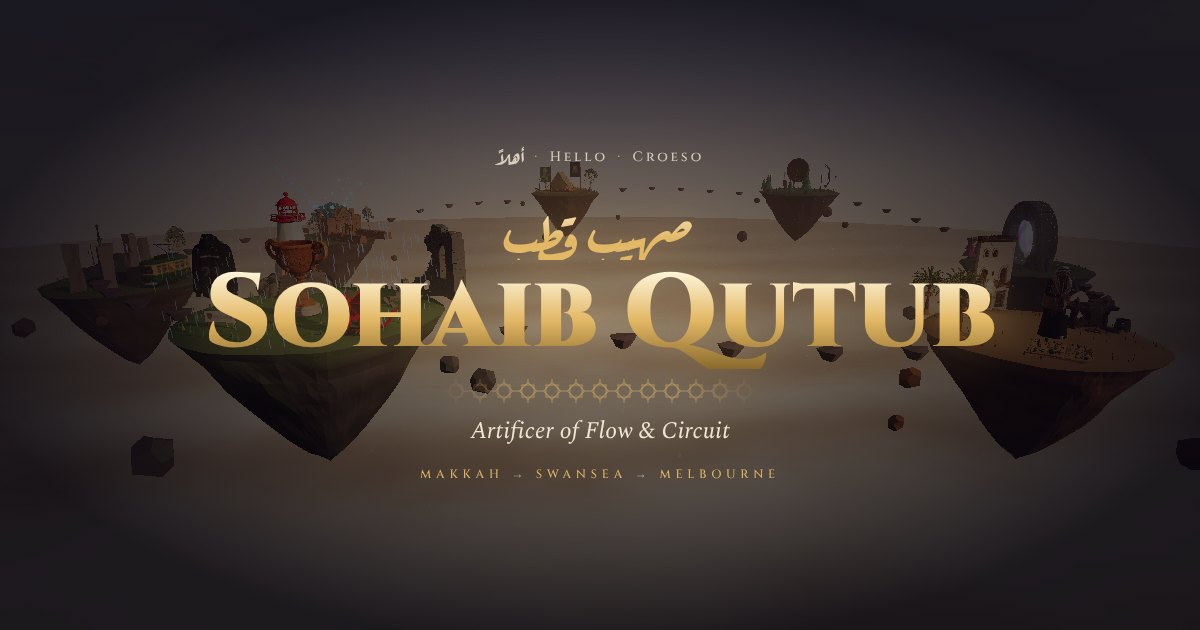
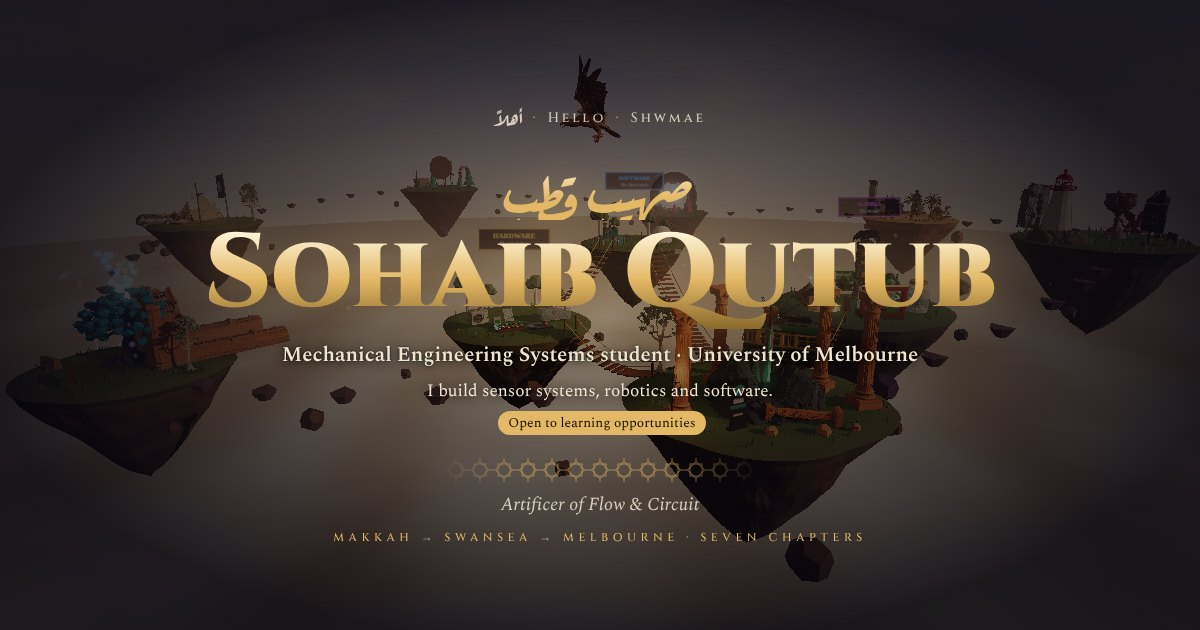
Ready to launch: share picture, search files, 404 page
- New link-preview picture made from the real title screen (role and pitch
  now show when the site is shared), with a tool to remake it
- Plain portfolio title for search results, fuller share tags, canonical link
- robots.txt, sitemap.xml, .nojekyll and a 404 page that leads back home
- Skill project links are 24px tap targets on phones

Claude-Session: https://claude.ai/code/session_01MJffDp7GYrH5Q7uLie5xzq

diff --git a/js/main.js b/js/main.js
@@ -6,8 +6,8 @@ import { OutputPass } from 'three/addons/postprocessing/OutputPass.js';
 import { GLTFLoader } from 'three/addons/loaders/GLTFLoader.js';
 import { DRACOLoader } from 'three/addons/loaders/DRACOLoader.js';
 import { DecalGeometry } from 'three/addons/geometries/DecalGeometry.js';
-import * as D from './data.js?v=56';
-import { map as MAP } from './worldmap.js?v=56';
+import * as D from './data.js?v=57';
+import { map as MAP } from './worldmap.js?v=57';
 
 const TAU = Math.PI * 2;
 const RING = 46;
@@ -478,7 +478,7 @@ function pump() {
   while (active < LOAD_AT_ONCE && queue.length) {
     const job = queue.shift(); active++;
     // The next download starts as soon as this one arrives, while it is still being decoded.
-    const bytes = fetch(`assets/models/${job.name}.glb?v=56`)
+    const bytes = fetch(`assets/models/${job.name}.glb?v=57`)
       .then((r) => { if (!r.ok) throw new Error(`HTTP ${r.status}`); return r.arrayBuffer(); })
       .finally(() => { active--; pump(); });
     bytes.then((buf) => gltf.parseAsync(buf, 'assets/models/'))
@@ -807,7 +807,7 @@ function logoTexture(file, { w = 512, h = 512, bg = '#ffffff', pad = 0.12, box, 
     tex.needsUpdate = true;
     if (onReady) onReady();
   });
-  img.src = `assets/logos/${file}?v=56`;
+  img.src = `assets/logos/${file}?v=57`;
   return tex;
 }
 const wood = () => flat(0x6b4a2e);
@@ -939,7 +939,7 @@ function medalFace(top, mid, bottom, logo, onLogo) {
   if (logo) {
     const img = new Image();
     img.onload = () => { logoImg = img; draw(); if (onLogo) onLogo(img.naturalWidth / img.naturalHeight); };
-    img.src = `assets/logos/${logo}?v=56`;
+    img.src = `assets/logos/${logo}?v=57`;
   }
   draw(); document.fonts.load('900 70px Cinzel').then(draw).catch(() => {});
   return tex;
@@ -1784,7 +1784,7 @@ const questCards = (list, openFirst) => list.map((q, i) => `
           <span class="q-status ${q.status === 'Active' ? 'active' : ''}">${esc(q.status)}</span>
           <span class="q-name">${esc(q.name)}</span><span class="q-role">${esc(q.role)}</span>
         </summary>
-        <div class="q-body">${q.logo ? `<img class="q-logo" src="assets/logos/${esc(q.logo)}?v=56" alt="${esc(q.name)} logo">` : ''}${q.shot ? `<a class="q-shot" href="${esc(q.play || '#')}" target="_blank" rel="noopener" tabindex="-1" aria-hidden="true"><img src="${esc(q.shot.src)}?v=56" width="${q.shot.w}" height="${q.shot.h}" alt="" loading="lazy"></a>` : ''}${q.play ? `<p class="q-play"><a class="play-btn" href="${esc(q.play)}" target="_blank" rel="noopener">▶ Play ${esc(q.name)} in your browser</a></p>` : ''}<p>${esc(q.summary)}</p>
+        <div class="q-body">${q.logo ? `<img class="q-logo" src="assets/logos/${esc(q.logo)}?v=57" alt="${esc(q.name)} logo">` : ''}${q.shot ? `<a class="q-shot" href="${esc(q.play || '#')}" target="_blank" rel="noopener" tabindex="-1" aria-hidden="true"><img src="${esc(q.shot.src)}?v=57" width="${q.shot.w}" height="${q.shot.h}" alt="" loading="lazy"></a>` : ''}${q.play ? `<p class="q-play"><a class="play-btn" href="${esc(q.play)}" target="_blank" rel="noopener">▶ Play ${esc(q.name)} in your browser</a></p>` : ''}<p>${esc(q.summary)}</p>
           <ul>${q.objectives.map((o) => `<li>${objective(o)}</li>`).join('')}</ul>
           ${q.flow ? `<div class="flow" aria-label="How it works">${q.flow.map((f) => `<span>${esc(f)}</span>`).join('<i>→</i>')}</div>` : ''}
           <p class="chips-label">Tools &amp; skills</p><div class="chips">${q.loot.map((l) => `<span class="chip">${esc(l)}</span>`).join('')}</div>
@@ -1892,12 +1892,12 @@ const panels = {
     ${motto(D.mottos.guilds)}
     <section><h3>Where I belong</h3><div class="logo-wall">${D.badges.map((b) => `
       <a class="logo-tile" href="${esc(b.href)}" target="_blank" rel="noopener" title="${esc(b.name)}"${b.bg ? ` style="background:${esc(b.bg)}"` : ''}>
-        ${b.logo ? `<img src="assets/logos/${esc(b.logo)}?v=56" alt="${esc(b.name)} logo" loading="lazy">` : `<b class="name-badge"><i lang="ar">${esc(b.ar)}</i>${esc(b.name)}</b>`}<span>${esc(b.note)}</span></a>`).join('')}</div></section>
+        ${b.logo ? `<img src="assets/logos/${esc(b.logo)}?v=57" alt="${esc(b.name)} logo" loading="lazy">` : `<b class="name-badge"><i lang="ar">${esc(b.ar)}</i>${esc(b.name)}</b>`}<span>${esc(b.note)}</span></a>`).join('')}</div></section>
     <section><h3>${dual('Clubs & leadership', 'Banners carried')}</h3>${D.guilds.map((g) => `
-      <div class="card">${g.logo ? `<img class="card-logo" src="assets/logos/${esc(g.logo)}?v=56" alt=""${g.logoBg ? ` style="background:${esc(g.logoBg)}"` : ''}>` : ''}<time>${esc(g.when)}</time><strong>${esc(g.name)}</strong>
+      <div class="card">${g.logo ? `<img class="card-logo" src="assets/logos/${esc(g.logo)}?v=57" alt=""${g.logoBg ? ` style="background:${esc(g.logoBg)}"` : ''}>` : ''}<time>${esc(g.when)}</time><strong>${esc(g.name)}</strong>
         <span class="sub">${esc(g.role)} · ${esc(g.place)}</span><p>${esc(g.detail)}</p></div>`).join('')}</section>
     <section><h3>${dual('Education', 'Academies')}</h3>${D.academies.map((a) => `
-      <div class="card">${a.logo ? `<img class="card-logo" src="assets/logos/${esc(a.logo)}?v=56" alt="">` : ''}<time>${esc(a.when)}</time><strong>${esc(a.name)}</strong><p>${esc(a.what)}</p></div>`).join('')}</section>`,
+      <div class="card">${a.logo ? `<img class="card-logo" src="assets/logos/${esc(a.logo)}?v=57" alt="">` : ''}<time>${esc(a.when)}</time><strong>${esc(a.name)}</strong><p>${esc(a.what)}</p></div>`).join('')}</section>`,
 
   portal: (r) => `${head(r, 'Open a Gate')}
     <p class="lore">Looking for an engineer who is ready to be useful from day one? Step through.</p>

diff --git a/index.html b/index.html
@@ -3,16 +3,25 @@
 <head>
 <meta charset="utf-8">
 <meta name="viewport" content="width=device-width, initial-scale=1, viewport-fit=cover">
-<title>Sohaib Qutub — The Chronicle</title>
+<title>Sohaib Qutub — Mechanical Engineering Student · Portfolio &amp; CV</title>
 <meta name="description" content="Sohaib Qutub — mechanical engineering student, builder of sensors, systems and software. An explorable 3D character sheet.">
 <link rel="icon" href="assets/favicon.svg" type="image/svg+xml">
 <meta name="theme-color" content="#0b0820">
 <meta property="og:type" content="website">
-<meta property="og:title" content="Sohaib Qutub — The Chronicle">
+<meta property="og:title" content="Sohaib Qutub — Engineering Student · Portfolio &amp; CV">
 <meta property="og:description" content="Mechanical engineering student who builds sensors, systems and software. Explore the projects as a 3D world.">
 <meta property="og:url" content="https://sogamer16.github.io/my-world/">
 <meta property="og:image" content="https://sogamer16.github.io/my-world/assets/og.jpg">
+<meta property="og:image:width" content="1200">
+<meta property="og:image:height" content="630">
+<meta property="og:image:alt" content="Sohaib Qutub, Mechanical Engineering Systems student at the University of Melbourne, over floating islands from the site">
+<meta property="og:site_name" content="Sohaib Qutub">
+<meta property="og:locale" content="en_AU">
 <meta name="twitter:card" content="summary_large_image">
+<meta name="twitter:title" content="Sohaib Qutub — Engineering Student · Portfolio &amp; CV">
+<meta name="twitter:description" content="Mechanical engineering student who builds sensors, systems and software. Explore the projects as a 3D world.">
+<meta name="twitter:image" content="https://sogamer16.github.io/my-world/assets/og.jpg">
+<link rel="canonical" href="https://sogamer16.github.io/my-world/">
 <script type="application/ld+json">
 {"@context":"https://schema.org","@type":"Person","name":"Sohaib Qutub","url":"https://sogamer16.github.io/my-world/","description":"Mechanical Engineering Systems student at the University of Melbourne who builds sensor systems, robotics and software.","alumniOf":{"@type":"CollegeOrUniversity","name":"University of Melbourne"},"sameAs":["https://www.linkedin.com/in/sohaibqutub","https://github.com/sogamer16","https://sogamer16.itch.io/"]}
 </script>
@@ -20,15 +29,15 @@
 <link rel="preconnect" href="https://fonts.gstatic.com" crossorigin>
 <link rel="preload" as="style" href="https://fonts.googleapis.com/css2?family=Aref+Ruqaa:wght@700&family=Cinzel:wght@500;700;900&family=Spectral:ital,wght@0,400;0,600;1,400&display=swap" onload="this.onload=null;this.rel='stylesheet';document.documentElement.classList.add('fonts-css')">
 <noscript><link rel="stylesheet" href="https://fonts.googleapis.com/css2?family=Aref+Ruqaa:wght@700&family=Cinzel:wght@500;700;900&family=Spectral:ital,wght@0,400;0,600;1,400&display=swap"></noscript>
-<link rel="stylesheet" href="css/style.css?v=56">
+<link rel="stylesheet" href="css/style.css?v=57">
 <script type="importmap">
 { "imports": { "three": "./vendor/three/three.module.js", "three/addons/": "./vendor/three/addons/" } }
 </script>
-<link rel="modulepreload" href="js/data.js?v=56">
+<link rel="modulepreload" href="js/data.js?v=57">
 <script>
   // Start fetching the 3D code early, unless the plain view is what will be shown (a #summary link or data saver).
   if (location.hash !== '#summary' && !(navigator.connection && navigator.connection.saveData)) {
-    ['vendor/three/three.module.js', 'vendor/three/addons/loaders/GLTFLoader.js', 'js/worldmap.js?v=56', 'js/main.js?v=56'].forEach(function (h) {
+    ['vendor/three/three.module.js', 'vendor/three/addons/loaders/GLTFLoader.js', 'js/worldmap.js?v=57', 'js/main.js?v=57'].forEach(function (h) {
       var l = document.createElement('link'); l.rel = 'modulepreload'; l.href = h; document.head.appendChild(l);
     });
   }
@@ -89,6 +98,6 @@
 <p id="hint" class="hud" role="status" aria-live="polite"></p>
 
 <noscript><p style="position:relative;z-index:50;padding:2rem;color:#fff">Sohaib Qutub — Mechanical Engineering Systems student, University of Melbourne. This site needs JavaScript. Find me on <a style="color:#e3b866" href="https://www.linkedin.com/in/sohaibqutub">LinkedIn</a> or <a style="color:#e3b866" href="https://github.com/sogamer16">GitHub</a>.</p></noscript>
-<script type="module" src="js/summary.js?v=56"></script>
+<script type="module" src="js/summary.js?v=57"></script>
 </body>
 </html>

diff --git a/js/summary.js b/js/summary.js
@@ -1,6 +1,6 @@
 // The plain view: everything on the site as one readable, printable page.
 // Kept separate from the 3D scene so it still works when WebGL does not.
-import * as D from './data.js?v=56';
+import * as D from './data.js?v=57';
 
 const esc = (s) => String(s).replace(/[&<>"]/g, (c) => ({ '&': '&amp;', '<': '&lt;', '>': '&gt;', '"': '&quot;' }[c]));
 const el = document.getElementById('summary');
@@ -32,7 +32,7 @@ el.innerHTML = `
       <p class="s-links"><a href="mailto:${esc(D.email.join('@'))}">${esc(D.email.join('@'))}</a> · ${D.portals.map((p) => `<a href="${esc(p.href)}" target="_blank" rel="noopener">${esc(p.href.replace(/^https?:\/\/(www\.)?/, ''))}</a>`).join(' · ')}</p>
       <p>${esc(D.hero.summary)}</p>
       <p class="s-seeking">${esc(D.hero.seeking)}</p>
-      <div class="s-logos">${D.badges.map((b) => (b.logo ? `<img src="assets/logos/${esc(b.logo)}?v=56"${b.size ? ` width="${b.size[0]}" height="${b.size[1]}"` : ''} alt="${esc(b.name)}" title="${esc(b.name)}"${b.bg ? ` style="background:${esc(b.bg)}"` : ''}>` : `<span class="s-badge" title="${esc(b.name)}"><i lang="ar">${esc(b.ar)}</i> ${esc(b.name)}</span>`)).join('')}</div>
+      <div class="s-logos">${D.badges.map((b) => (b.logo ? `<img src="assets/logos/${esc(b.logo)}?v=57"${b.size ? ` width="${b.size[0]}" height="${b.size[1]}"` : ''} alt="${esc(b.name)}" title="${esc(b.name)}"${b.bg ? ` style="background:${esc(b.bg)}"` : ''}>` : `<span class="s-badge" title="${esc(b.name)}"><i lang="ar">${esc(b.ar)}</i> ${esc(b.name)}</span>`)).join('')}</div>
     </header>
 
     <h2>Education</h2>
@@ -89,7 +89,7 @@ if (/^[a-z0-9-]+$/.test(D.analytics || '')) {
 // visitors, but not under a #summary link or with data saver on until the reader goes back to the world,
 // and never on a device without WebGL.
 let world = null;
-const loadWorld = () => { if (!document.body.classList.contains('no-webgl')) world ||= import('./main.js?v=56'); };
+const loadWorld = () => { if (!document.body.classList.contains('no-webgl')) world ||= import('./main.js?v=57'); };
 const saveData = !!(navigator.connection && navigator.connection.saveData);
 
 // On a first visit the text waits (at most 0.8 s) for its font, so lines do not re-wrap and jump when it arrives.

diff --git a/404.html b/404.html
@@ -1,0 +1,27 @@
+<!doctype html>
+<html lang="en">
+<head>
+<meta charset="utf-8">
+<meta name="viewport" content="width=device-width, initial-scale=1">
+<title>Page not found — Sohaib Qutub</title>
+<meta name="robots" content="noindex">
+<link rel="icon" href="/my-world/assets/favicon.svg" type="image/svg+xml">
+<style>
+  :root { color-scheme: dark; }
+  body { margin: 0; min-height: 100vh; display: grid; place-items: center; background: #0b0820; color: #efe6d2; font: 17px/1.5 Georgia, serif; text-align: center; padding: 16px; box-sizing: border-box; }
+  h1 { font-weight: 400; letter-spacing: 0.04em; margin: 0 0 0.4rem; color: #e3b866; }
+  p { margin: 0 0 1.4rem; opacity: 0.85; }
+  a { display: inline-block; margin: 0.3rem; padding: 0.6rem 1.1rem; border: 1px solid #e3b866; border-radius: 999px; color: #e3b866; text-decoration: none; }
+  a:first-of-type { background: #e3b866; color: #1a1206; }
+  a:focus-visible { outline: 2px solid #fff; outline-offset: 3px; }
+</style>
+</head>
+<body>
+<main>
+  <h1>This page isn’t here</h1>
+  <p>The link may be old. Everything is on the main page.</p>
+  <a href="/my-world/">Explore the world</a>
+  <a href="/my-world/#summary">View CV &amp; projects</a>
+</main>
+</body>
+</html>

diff --git a/css/style.css b/css/style.css
@@ -174,7 +174,9 @@ details.quest summary:hover { background: rgba(255, 255, 255, 0.04); }
 .skill:focus-visible, .skill.lit { border-color: var(--c); background: color-mix(in srgb, var(--c) 16%, transparent); box-shadow: 0 0 14px color-mix(in srgb, var(--c) 35%, transparent); }
 .skill.lit .s-name { color: #fff; }
 .s-used { font-size: 0.74rem; color: var(--dim); line-height: 1.35; }
-.s-used button { font: inherit; color: var(--c); background: none; border: 0; padding: 0; cursor: pointer; border-bottom: 1px dotted currentColor; }
+.s-used button { font: inherit; color: var(--c); background: none; border: 0; cursor: pointer; text-decoration: underline dotted; text-underline-offset: 3px;
+  /* 24px tall so each project is easy to tap on a phone (WCAG 2.5.8), without spreading the lines apart */
+  display: inline-block; min-height: 24px; padding: 5px 0; margin: -5px 0; }
 .s-used button:hover, .s-used button:focus-visible { color: #fff; }
 .school-hint { font-size: 0.76rem; font-style: italic; color: var(--dim); margin-top: 2px; }
 .flash { animation: flash 1.6s ease; }

diff --git a/README.md b/README.md
@@ -33,6 +33,8 @@ Visit counts: set `analytics` in `js/data.js` to a GoatCounter site code (make a
 
 CV as a PDF: `assets/Sohaib-Qutub-CV.pdf` (two A4 pages, made from the plain view's print styles) is linked from the CV view, the Contact menu and the Portal. After changing `js/data.js`, remake it: serve the folder (`python3 -m http.server 8000`), then run `node tools/make-cv-pdf.mjs` (it needs Playwright: `npm i playwright` and `npx playwright install chromium` once). Check it is still two pages.
 
+Sharing and search: `assets/og.jpg` (1200×630) is the picture shown when the link is posted on LinkedIn, WhatsApp or Slack. It is the real title screen without its buttons; remake it after changing the name, role or pitch with `node tools/make-share-image.mjs` (same set-up as the PDF). `robots.txt` and `sitemap.xml` point search engines at the site and the PDF (update the `lastmod` dates when you change things), the page title reads as a plain portfolio title in search results, and `404.html` sends a broken link back to the world or the CV. `.nojekyll` tells GitHub Pages to serve the files as they are.
+
 Speed: `js/summary.js` loads first and starts the 3D world (`js/main.js`) only when it will be seen. A `#summary` link, or a visitor with data saver on, gets the plain view without downloading three.js or the models (about 8 MB), and the world loads when they go back to it. Fonts load without holding up the first paint; the plain view waits up to 0.8 s for its body font so the text does not jump. Phones render at a lower resolution without the glow; devices with 2 GB of memory or 2 cores start in the light mode, and if the world still runs below about 12 fps a notice offers the plain view (once per visit).
 
 After changing any file in `js/` or `css/`, bump the `?v=` number in `index.html` and in the imports in `js/main.js` and `js/summary.js` (including `main.js` in `summary.js`), so browsers fetch the new version instead of a cached one.
